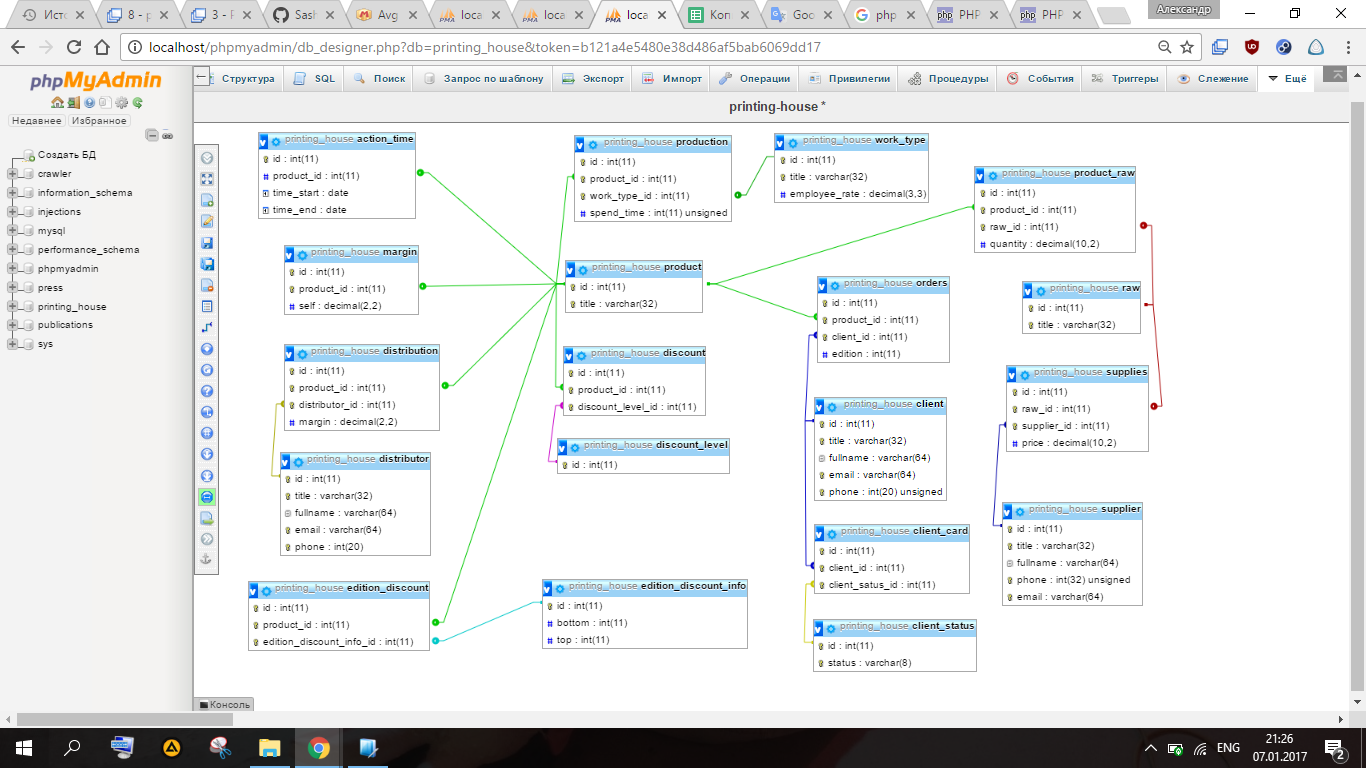
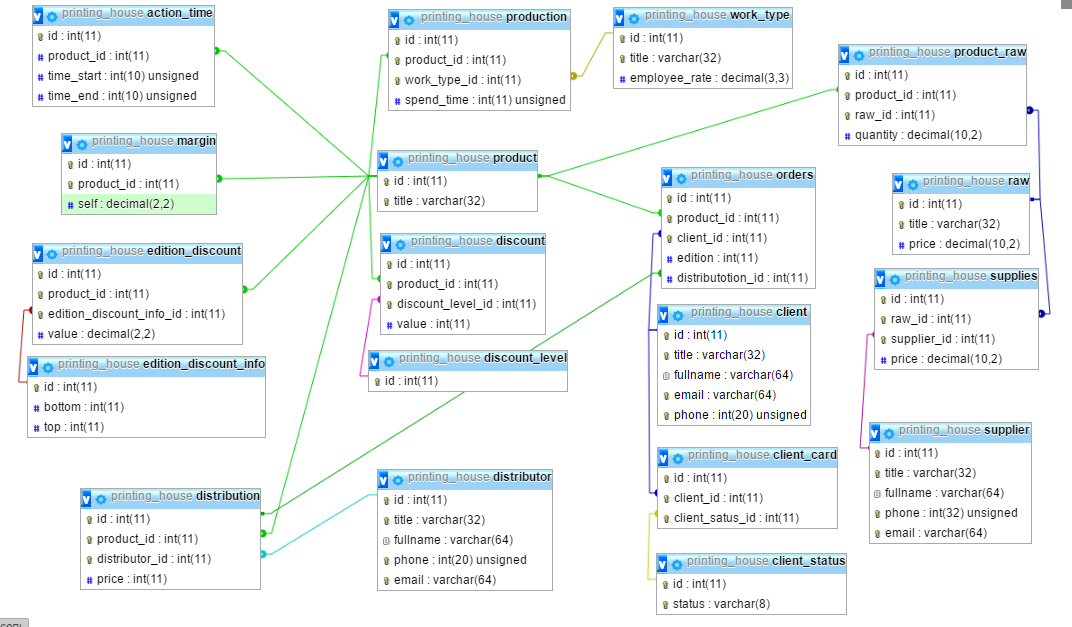
all tables filled

diff --git a/dbcomponents.php b/dbcomponents.php
@@ -300,37 +300,44 @@ class Orders extends Table {
         return $this->DB->select($this->table, '*', ['client_id' => $client_id]);
     }
     
-    public function insert(&$product, $product_id, &$client, $client_id, &$edition_discount_info, $edition) {
-        if (!$this->canInsert($product, $product_id, $client, $client_id, $edition_discount_info, $edition)) {
+    public function selectByDistributionId($distribution_id) {
+        return $this->DB->select($this->table, '*', ['distribution_id' => $distribution_id]);
+    }
+    
+    public function insert(&$product, $product_id, &$client, $client_id, &$distribution, $distribution_id, &$edition_discount_info, $edition) {
+        if (!$this->canInsert($product, $product_id, $client, $client_id, $distribution, $distribution_id, $edition_discount_info, $edition)) {
             return false;
         }
         $insert = [
             'id' => null,
             'product_id' => $product_id,
             'client_id' => $client_id,
+            'distributotion_id' => $distribution_id,
             'edition' => $edition
         ];
         return $this->DB->insert($this->table, $insert);
     }
     
-    public function update($id, &$product, $product_id, &$client, $client_id, &$edition_discount_info, $edition) {
-        if (!$this->canInsert($product, $product_id, $client, $client_id, $edition_discount_info, $edition)) {
+    public function update($id, &$product, $product_id, &$client, $client_id, &$distribution, $distribution_id, &$edition_discount_info, $edition) {
+        if (!$this->canInsert($product, $product_id, $client, $client_id, $distribution, $distribution_id, $edition_discount_info, $edition)) {
             return false;
         }
         $insert = [
             'product_id' => $product_id,
             'client_id' => $client_id,
+            'distributotion_id' => $distribution_id,
             'edition' => $edition
         ];
         return $this->DB->update($this->table, $insert, ['id' => $id]);
     }
     
-    protected function canInsert(&$product, $product_id, &$client, $client_id, &$edition_discount_info, $edition) {
+    protected function canInsert(&$product, $product_id, &$client, $client_id, &$distribution, $distribution_id, &$edition_discount_info, $edition) {
         $edition_discount_levels = $edition_discount_info->select();
         return $product->hasId($product_id)
             && $client->hasId($client_id)
-            && $edition >= $this->edition_discount_levels[0]['top']
-            && $edition <= end($this->edition_discount_levels)['bottom'];
+            && $distribution->hasId($distribution_id)
+            && $edition >= $edition_discount_levels[0]['top']
+            && $edition <= end($edition_discount_levels)['bottom'];
     }
 }
 
@@ -492,7 +499,7 @@ class ClientCard extends Table {
         $insert = [
             'id' => null,
             'client_id' => $client_id,
-            'client_status_id' => $client_status_id,
+            'client_satus_id' => $client_status_id,
         ];
         return $this->DB->insert($this->table, $insert);
     }
@@ -503,7 +510,7 @@ class ClientCard extends Table {
         }
         $insert = [
             'client_id' => $client_id,
-            'client_status_id' => $client_status_id,
+            'client_satus_id' => $client_status_id,
         ];
         return $this->DB->update($this->table, $insert, ['id' => $id]);
     }
@@ -534,32 +541,35 @@ class Discount extends Table {
         return $this->DB->select($this->table, '*', ['product_id' => $product_id]);
     }
     
-    public function insert(&$product, $product_id, &$discount_level, $discount_level_id) {
-        if (!$this->canInsert($product, $product_id, $discount_level, $discount_level_id)) {
+    public function insert(&$product, $product_id, &$discount_level, $discount_level_id, $value) {
+        if (!$this->canInsert($product, $product_id, $discount_level, $discount_level_id, $value)) {
             return false;
         }
         $insert = [
             'id' => null,
             'product_id' => $product_id,
             'discount_level_id' => $discount_level_id,
+            'value' => $value
         ];
         return $this->DB->insert($this->table, $insert);
     }
     
-    public function update($id, &$product, $product_id, &$discount_level, $discount_level_id) {
-        if (!$this->canInsert($product, $product_id, $discount_level, $discount_level_id)) {
+    public function update($id, &$product, $product_id, &$discount_level, $discount_level_id, $value) {
+        if (!$this->canInsert($product, $product_id, $discount_level, $discount_level_id, $value)) {
             return false;
         }
         $insert = [
             'product_id' => $product_id,
             'discount_level_id' => $discount_level_id,
+            'value' =>$value
         ];
         return $this->DB->update($this->table, $insert, ['id' => $id]);
     }
     
-    protected function canInsert(&$product, $product_id, &$discount_level, $discount_level_id) {
+    protected function canInsert(&$product, $product_id, &$discount_level, $discount_level_id,$value) {
         return $product->hasId($product_id)
-            && $discount_level->hasId($discount_level_id);
+            && $discount_level->hasId($discount_level_id)
+            && $value >= 0 && $value <= 100;
     }
 }
 

diff --git a/dbutility.php b/dbutility.php
@@ -43,6 +43,10 @@ class FillPress extends Press {
         $this->fillMargin();
         $this->fillDistributor();
         $this->fillDistribution();
+        $this->fillClient();
+        $this->fillClientCard();
+        $this->fillOrder();
+        $this->fillDiscount();
     }
     
     public function fillProduct() {
@@ -99,6 +103,14 @@ class FillPress extends Press {
         $this->insertProduction(1, 5, 35);
     }
     
+    public function fillClient() {
+        $this->client->insert('Big Magazine', null, null, 'BigMagazine@mail.ru');
+    }
+    
+    public function fillClientCard() {
+        $this->insertClientCard(1, 1);
+    }
+    
     public function fillEditionDiscount() {
         $this->insertEditionDiscount(1, [
             1,
@@ -120,6 +132,10 @@ class FillPress extends Press {
         ]);   
     }
     
+    public function fillOrder() {
+        $this->insertOrder(1, 1, 1, 10000);
+    }
+    
     public function fillMargin() {
         $this->insertMargin(1, 0.3);
     }
@@ -134,6 +150,10 @@ class FillPress extends Press {
         $this->insertDistribution(1, 1, 3540);
         $this->insertDistribution(1, 2, 3600);
         $this->insertDistribution(1, 3, 3660);
+    }
+    
+    public function fillDiscount() {
+        $this->insertDiscount(1, [5, 7, 25, 30]);
     }
     
     protected function truncateTable($table) {

diff --git a/dblib.php b/dblib.php
@@ -84,6 +84,36 @@ class Press {
         }
     }
     
+    public function insertClientCard($client_id, $client_status_id) {
+        $this->client_card->insert($this->client, $client_id, $this->client_status, $client_status_id);
+    }
+    
+    public function insertOrder($product_id, $client_id, $distribution_id, $edition) {
+        $this->orders->insert(
+            $this->product,
+            $client_id,
+            $this->client,
+            $client_id,
+            $this->distribution,
+            $distribution_id,
+            $this->edition_discount_info,
+            $edition
+        );
+    }
+    
+    public function insertDiscount($product_id, $values) {
+        $count = count($this->discount_level->select());
+        if ($count != count($values)) {
+            return false;
+        }
+        
+        $i = 0;
+        foreach ($values as $value) {
+            $this->discount->insert($this->product, $product_id, $this->discount_level, $i + 1, $value);
+            ++$i;
+        }
+    }
+    
     protected function getWorkCost($product_id) {
         $costs = [];
         $productions = $this->production->selectByProductId($product_id);
@@ -141,6 +171,8 @@ class Press {
          
          return array_sum($costs);
     }
+    
+
     
     protected $DB;
     
